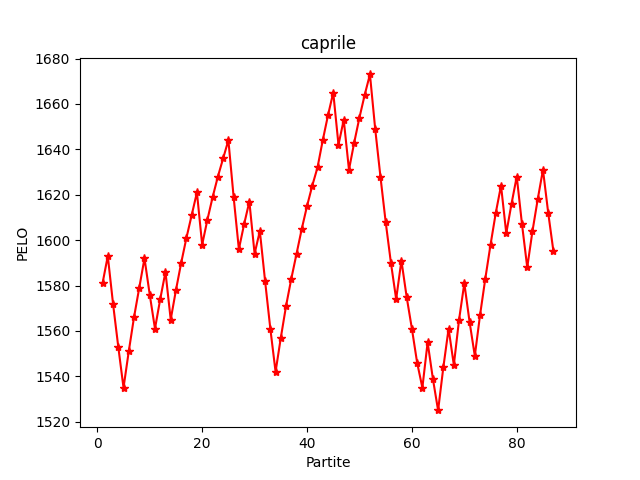
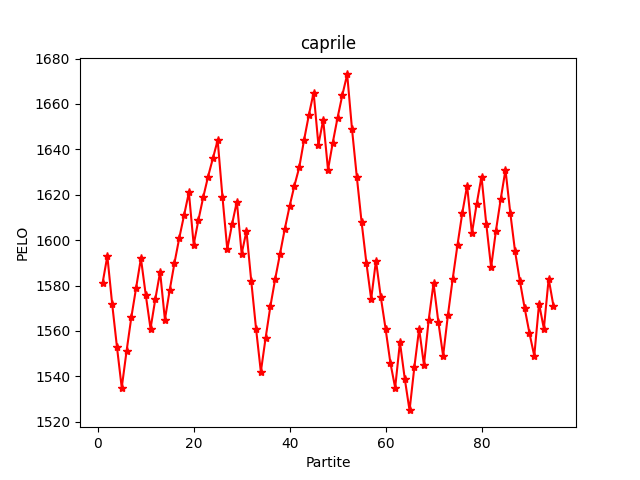
Add files via upload

diff --git a/index.htm b/index.htm
@@ -18,29 +18,29 @@
     <tr>
       <th>0</th>
       <td><a href='castellani.png'>castellani</a></td>
-      <td>1639</td>
-      <td>331</td>
-      <td>142</td>
-      <td>3060</td>
-      <td>3308</td>
+      <td>1683</td>
+      <td>342</td>
+      <td>150</td>
+      <td>3174</td>
+      <td>3414</td>
     </tr>
     <tr>
       <th>1</th>
-      <td><a href='zontini.png'>zontini</a></td>
-      <td>1618</td>
-      <td>183</td>
-      <td>99</td>
-      <td>1823</td>
-      <td>1748</td>
-    </tr>
-    <tr>
-      <th>2</th>
       <td><a href='malvagi.png'>malvagi</a></td>
       <td>1611</td>
       <td>60</td>
       <td>35</td>
       <td>611</td>
       <td>574</td>
+    </tr>
+    <tr>
+      <th>2</th>
+      <td><a href='zontini.png'>zontini</a></td>
+      <td>1609</td>
+      <td>186</td>
+      <td>100</td>
+      <td>1856</td>
+      <td>1779</td>
     </tr>
     <tr>
       <th>3</th>
@@ -53,21 +53,21 @@
     </tr>
     <tr>
       <th>4</th>
-      <td><a href='caprile.png'>caprile</a></td>
-      <td>1595</td>
-      <td>128</td>
-      <td>80</td>
-      <td>1320</td>
-      <td>1127</td>
-    </tr>
-    <tr>
-      <th>5</th>
       <td><a href='devigili.png'>devigili</a></td>
       <td>1595</td>
       <td>8</td>
       <td>7</td>
       <td>88</td>
       <td>57</td>
+    </tr>
+    <tr>
+      <th>5</th>
+      <td><a href='caprile.png'>caprile</a></td>
+      <td>1571</td>
+      <td>136</td>
+      <td>82</td>
+      <td>1393</td>
+      <td>1210</td>
     </tr>
     <tr>
       <th>6</th>
